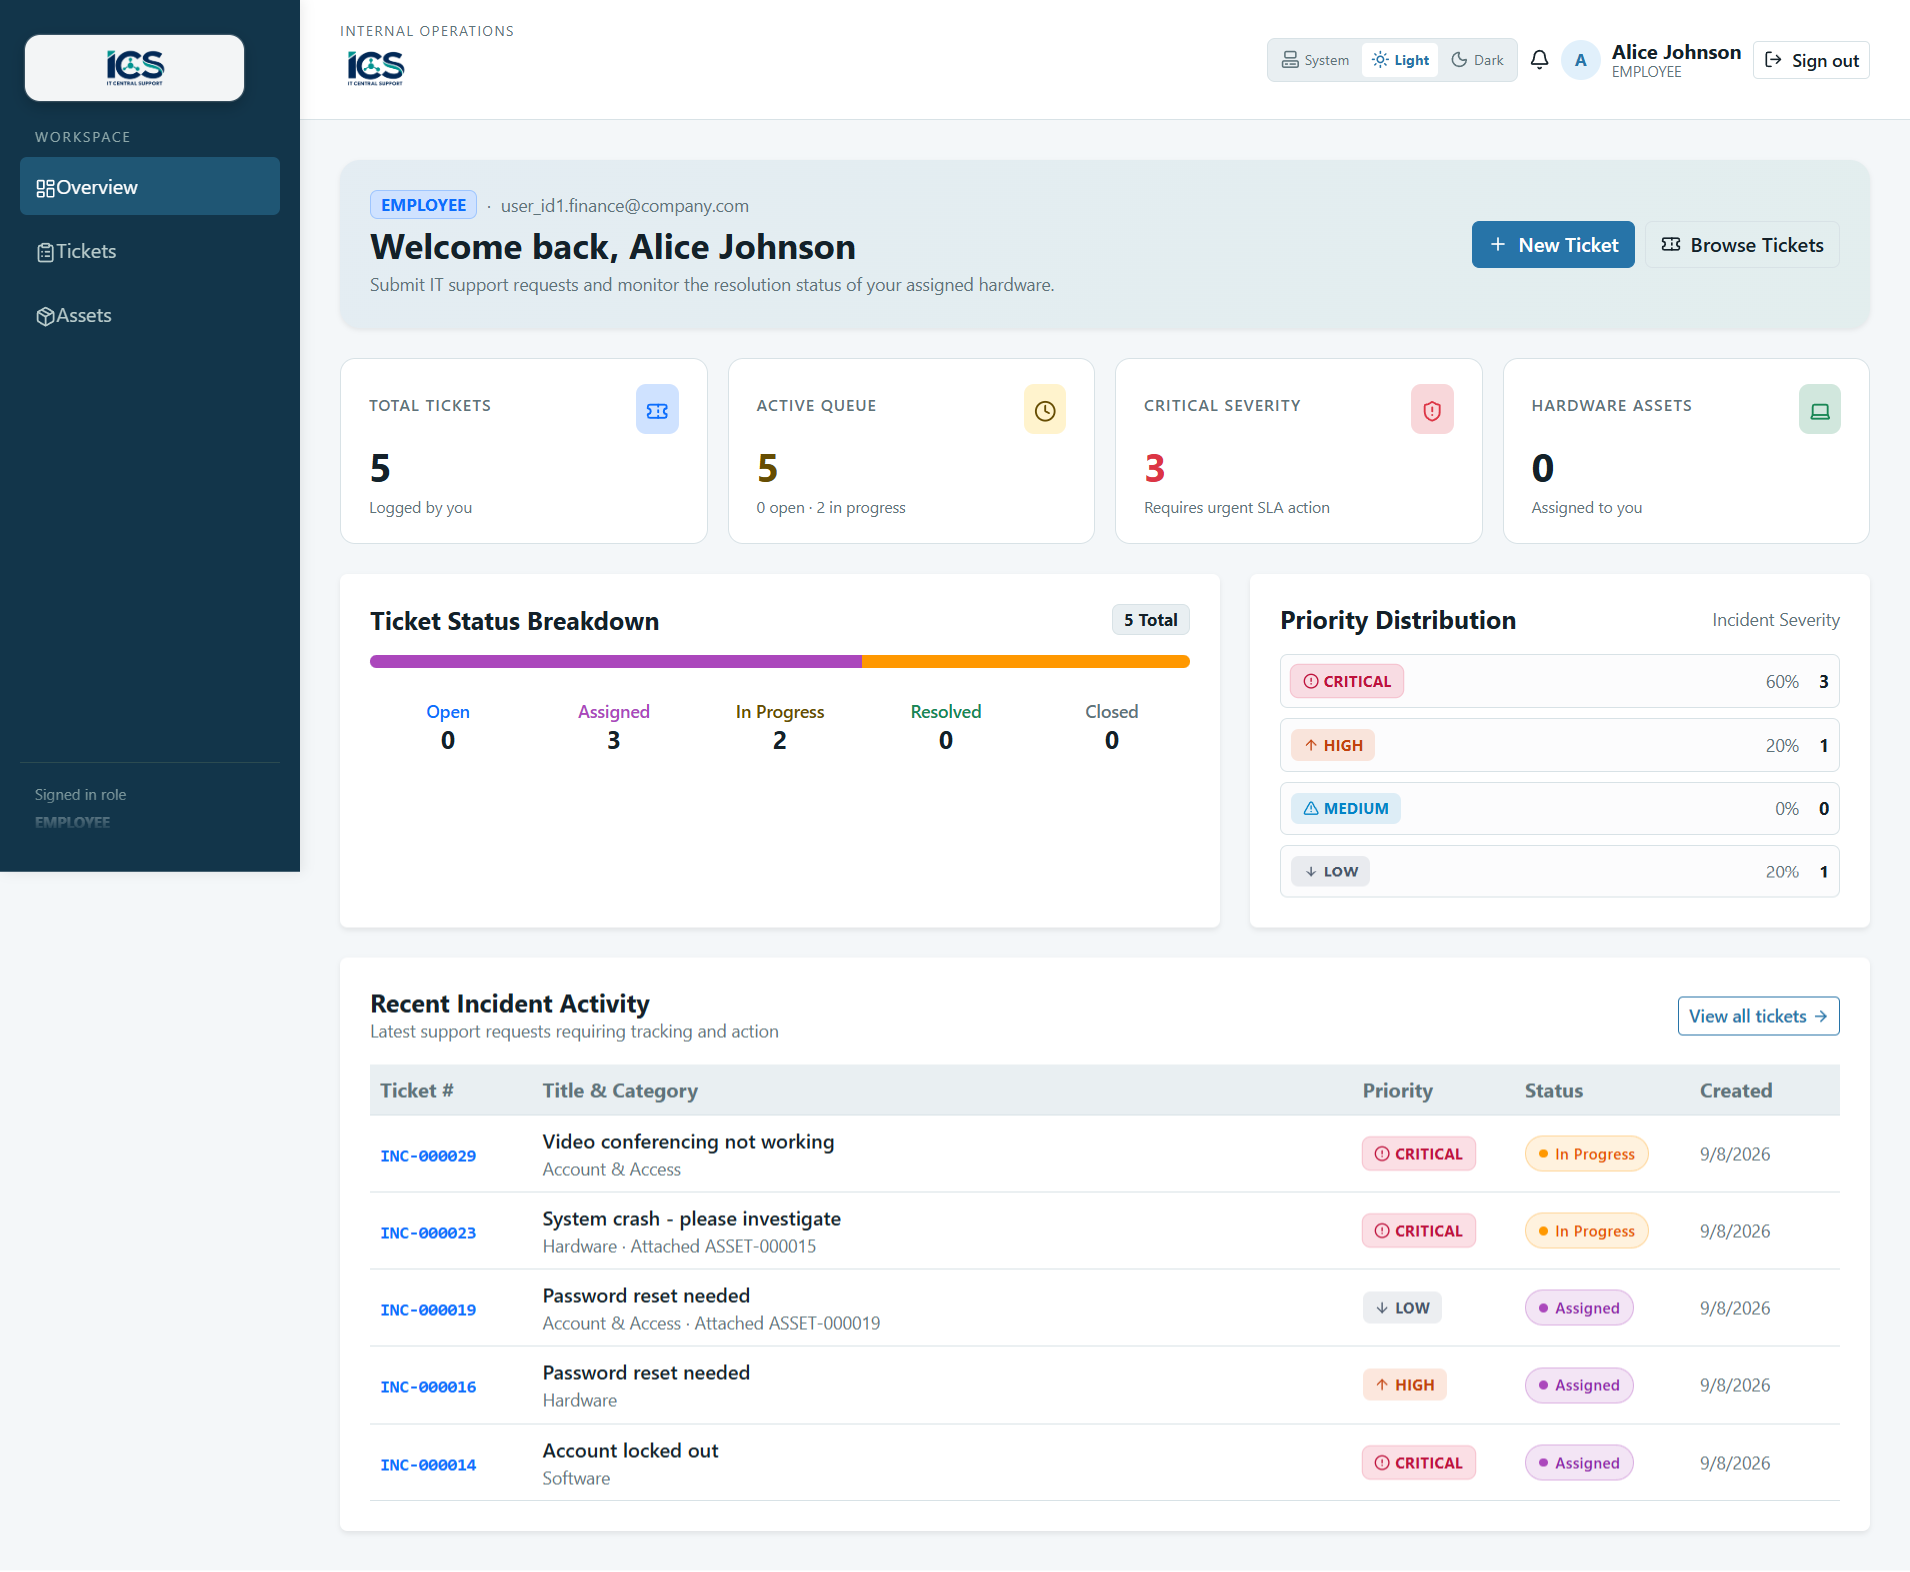
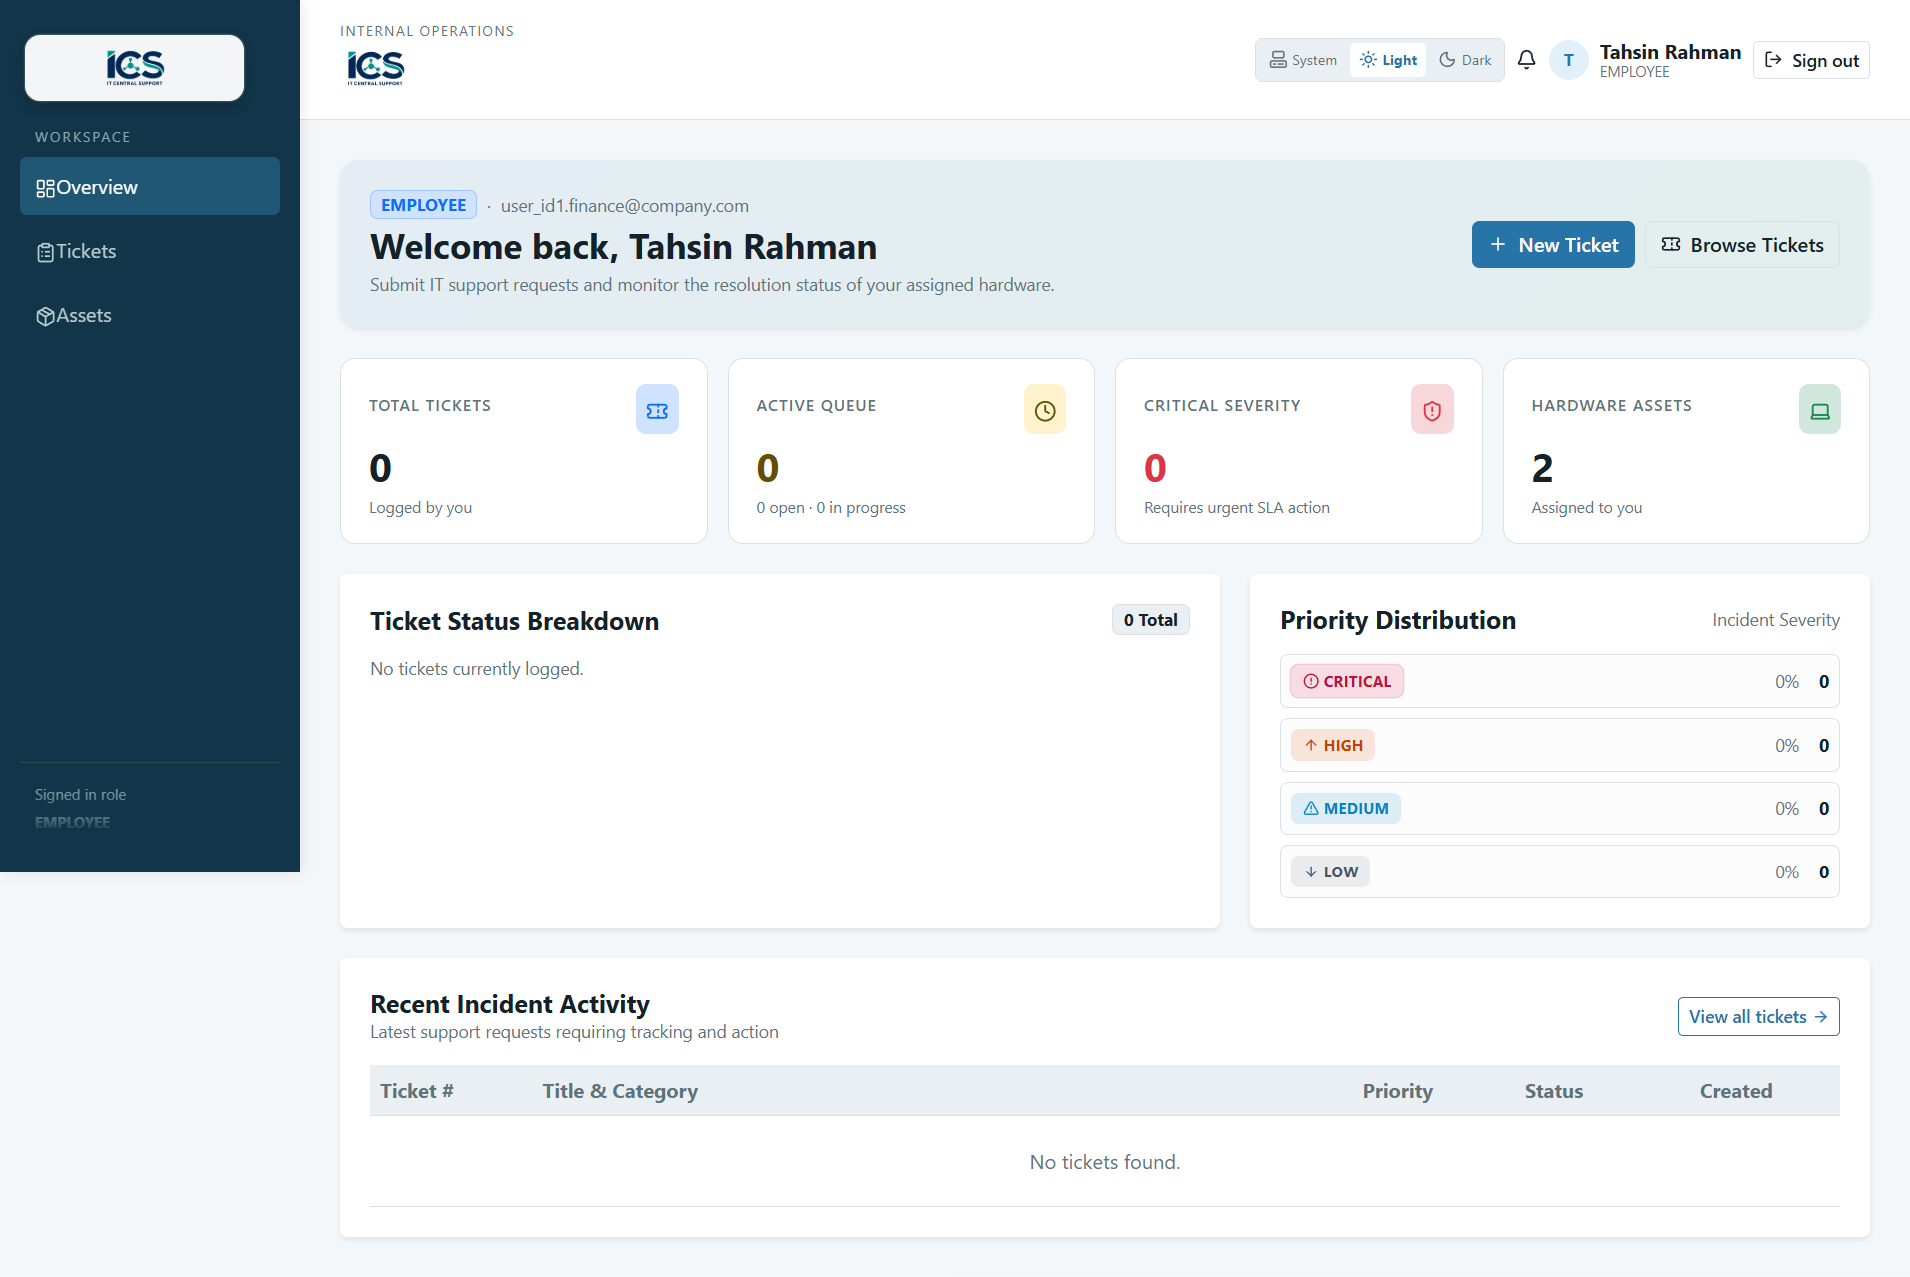
Update README with comprehensive guide and UI showcase screenshots

diff --git a/README.md b/README.md
@@ -1,98 +1,281 @@
-# ICS - IT Central Support
+<div align="center">
 
-**Portfolio Project for IT Intern Application — Financial Services Context**
+<img src="frontend/public/branding/ICS_icon-textbased.png" alt="ICS - IT Central Support Logo" width="280" />
 
-A realistic internal IT operations web application demonstrating practical knowledge of IT support workflows, ticket management, asset inventory, REST APIs, relational databases, and role-based authorization.
+# ICS — IT Central Support & Asset Management System
 
-**This is a fictional educational portfolio project designed to simulate internal IT operations in a financial-services environment. It is not affiliated with or representative of any company's internal systems.**
+**An enterprise-grade internal IT operations platform built for modern business workflows, incident handling, and hardware asset lifecycle governance.**
+
+[![Python](https://img.shields.io/badge/Python-3.11+-3776AB?style=for-the-badge&logo=python&logoColor=white)](https://www.python.org/)
+[![Flask](https://img.shields.io/badge/Flask-3.0+-000000?style=for-the-badge&logo=flask&logoColor=white)](https://flask.palletsprojects.com/)
+[![React](https://img.shields.io/badge/React-18.2+-20232A?style=for-the-badge&logo=react&logoColor=61DAFB)](https://react.dev/)
+[![Vite](https://img.shields.io/badge/Vite-4.5+-646CFF?style=for-the-badge&logo=vite&logoColor=white)](https://vitejs.dev/)
+[![Bootstrap](https://img.shields.io/badge/Bootstrap-5.3+-7952B3?style=for-the-badge&logo=bootstrap&logoColor=white)](https://getbootstrap.com/)
+[![SQLite/PostgreSQL](https://img.shields.io/badge/Database-SQLite%20%7C%20PostgreSQL-4169E1?style=for-the-badge&logo=postgresql&logoColor=white)](https://www.postgresql.org/)
+[![Docker](https://img.shields.io/badge/Docker-Ready-2496ED?style=for-the-badge&logo=docker&logoColor=white)](https://www.docker.com/)
+[![Render](https://img.shields.io/badge/Deploy-Render-46E3B7?style=for-the-badge&logo=render&logoColor=white)](https://render.com/)
+
+[Key Features](#-key-features) •
+[1-Click Demo Access](#-instant-1-click-guest-access) •
+[UI Showcase](#-ui-showcase) •
+[Architecture](#-system-architecture) •
+[Installation](#-local-installation--quick-start) •
+[Testing](#-testing--quality-assurance) •
+[Deployment](#-production-deployment) •
+[Docs](#-documentation-index)
+
+</div>
 
 ---
 
-## Project Status
+## 📌 Executive Summary
 
-🟢 **Core local workflow complete** — authentication, dashboard, tickets, assets, and tests are implemented
+**ICS (IT Central Support)** is a full-stack, internal operations web application designed to bridge the gap between organizational staff and technical support teams. It streamlines incident resolution, tracks hardware custody from procurement to decommissioning, maintains comprehensive audit logs, and enforces fine-grained role-based security across the enterprise.
 
-See [PROJECT_PLAN.md](PROJECT_PLAN.md) for detailed implementation roadmap.
+### Core Objectives
+- **End-User Empowerment**: Frictionless self-service ticketing with real-time progress and visibility over company-issued devices.
+- **Operational Agility**: Centralized technician queues with live search, ticket status progression, priority indicators, and comment threads.
+- **Asset Lifecycle Governance**: Complete physical equipment tracking including serial numbers, warranty deadlines, department allocation, and incident histories.
+- **Managerial Compliance**: Immutable manager audit logs, employee directory management, and administrative safeguards.
 
 ---
 
-## Quick Start
+## ⚡ Instant 1-Click Guest Access
 
-See [PROJECT_INSTRUCTIONS.md](PROJECT_INSTRUCTIONS.md) for complete setup, run, exploration, testing, and troubleshooting instructions.
+No registration or manual credential entry required! The login screen provides **instant 1-click persona buttons** to test each level of authorization:
 
-From the repository root, install dependencies:
+| Persona | Name | Role | Access Level & Capabilities |
+| :--- | :--- | :--- | :--- |
+| 👤 **Employee** | Tahsin Rahman | `EMPLOYEE` | **Self-Service**: Log IT issues, review assigned equipment, comment on personal tickets |
+| 🛠 **IT Support** | Rakib Chowdhury | `IT_SUPPORT` | **Operational**: Assign tickets, advance status workflow, register & update hardware inventory |
+| 🛡 **IT Manager** | Md. Shahidul Islam Prodhan | `IT_MANAGER` | **Executive Governance**: Manage user roles/status, inspect audit logs, full system oversight |
 
-```powershell
-python -m pip install -r backend/requirements.txt
-Push-Location frontend
-npm.cmd install
-Pop-Location
+> **Credentials (if typing manually):**  
+> • Employee: `user_id1.finance@company.com` / `user_id1`  
+> • IT Support: `user_id1.ics@company.com` / `user_id1`  
+> • IT Manager: `user_id2.ics@company.com` / `user_id2`
+
+---
+
+## 📸 UI Showcase
+
+### 1. Instant Guest Login
+*Sleek, responsive authentication screen featuring 1-click role simulation, password visibility toggle, and secure session management.*
+
+![Login Screen](project-ss/login-page.png)
+
+---
+
+### 2. Employee Dashboard (Self-Service)
+*Customized view for organizational staff displaying personal ticket counters, active support requests, and assigned physical assets.*
+
+![Employee Dashboard](project-ss/employee-dashboard.png)
+
+---
+
+### 3. IT Support Specialist Dashboard (Operations)
+*High-visibility technician hub highlighting open incident volume, assigned queues, pending resolutions, and quick access to hardware inventory.*
+
+![IT Support Dashboard](project-ss/itsupport-dashboard.png)
+
+---
+
+### 4. IT Manager Dashboard (Executive Governance)
+*Comprehensive managerial control center featuring organizational performance metrics, department breakdowns, employee directory management, and system-wide audit activity.*
+
+![Manager Dashboard](project-ss/manager-dashboard.png)
+
+---
+
+## 🌟 Key Features
+
+### 🎫 Support Incident Management
+- **Ticket Lifecycle**: Full workflow tracking across `Open` ➔ `Assigned` ➔ `In Progress` ➔ `Resolved` ➔ `Closed`.
+- **Search & Filtering**: Live query search (`?q=`) across titles, descriptions, and ticket numbers, plus category and priority filtering.
+- **Technician Assignment**: Reassign tickets to qualified specialists with audit traceability.
+- **Interactive Collaboration**: Timestamped threaded comments between staff and IT technicians.
+- **Resolution Documentation**: Enforced resolution notes upon closing incidents.
+
+### 💻 Hardware Asset Management
+- **Lifecycle Tracking**: Monitor hardware states: `Available`, `Assigned`, `Under Repair`, or `Retired`.
+- **Hardware Profile**: Manufacturer, model, serial number, procurement date, warranty expiry, and notes.
+- **Custodian Linking**: Associate physical workstations and devices directly to employees.
+- **Incident History**: Inspect past tickets linked to any individual hardware unit.
+
+### 🔒 Enterprise Security & Governance
+- **Role-Based Access Control (RBAC)**: Strict permission boundaries for `EMPLOYEE`, `IT_SUPPORT`, and `IT_MANAGER`.
+- **Session Security**: HTTP-only secure cookie sessions with Werkzeug password hashing.
+- **Manager Audit Logging**: Every critical action (role promotion, account deactivation, ticket reassignment) logged with actor and timestamp.
+- **Deactivation Protection**: Built-in safeguard preventing deactivation of the last remaining IT Manager.
+
+### 🎨 Modern UI/UX Design
+- **Dynamic Theming**: Instant toggle between Dark Mode and Light Mode with high-contrast text and accessible badges.
+- **Role-Colored Navigation**: Distinct accent themes for Employee (Navy), IT Support (Emerald), and IT Manager (Royal Indigo).
+- **Responsive Layout**: Fluid Bootstrap 5.3 grid optimized for desktop workstations, tablets, and mobile screens.
+
+---
+
+## 🏗 System Architecture
+
+```mermaid
+graph TD
+    Client["React 18 SPA (Vite + Bootstrap 5.3)"]
+    API["Flask REST API Engine (Python 3.11+)"]
+    Auth["Session & RBAC Middleware"]
+    DB[(SQLite / PostgreSQL via SQLAlchemy)]
+    Static["Static Assets & Compiled Bundle (frontend/dist)"]
+
+    Client -->|JSON REST Requests| API
+    API -->|Authenticate| Auth
+    Auth -->|Authorize| API
+    API -->|ORM Operations| DB
+    API -->|Serve SPA in Prod| Static
 ```
 
-Start Flask in one terminal:
+### Technology Matrix
 
+| Layer | Technologies |
+| :--- | :--- |
+| **Frontend UI** | React 18, Vite, Bootstrap 5.3, Lucide Icons, Axios, React Router v6 |
+| **Backend API** | Python 3.11+, Flask 3.0, Flask-SQLAlchemy, Werkzeug, Gunicorn |
+| **Database** | SQLite (development/testing) & PostgreSQL (cloud production) |
+| **Testing** | pytest, pytest-flask, in-memory SQLite isolation |
+| **Container & Cloud**| Docker, Docker Compose, Render Blueprint (`render.yaml`) |
+
+---
+
+## 💻 Local Installation & Quick Start
+
+### Prerequisites
+- **Python 3.10+**
+- **Node.js 18+** & `npm`
+- **Git**
+
+### 1. Clone Repository
 ```powershell
-Push-Location backend
+git clone https://github.com/TheShahidul/ICS_IT-Central-Support.git
+cd ICS_IT-Central-Support
+```
+
+### 2. Backend Setup
+```powershell
+# Create and activate virtual environment
+python -m venv venv
+.\venv\Scripts\Activate.ps1
+
+# Install dependencies
+pip install -r backend/requirements.txt
+
+# Seed the database with realistic demo data
+python -c "from backend.seed.seed_data import seed_database; seed_database()"
+```
+
+### 3. Frontend Setup
+```powershell
+cd frontend
+npm install
+npm run build
+cd ..
+```
+
+### 4. Run Development Servers
+
+**Option A: Separate Dev Servers (Recommended for Development)**
+
+*Terminal 1 (Backend API):*
+```powershell
+cd backend
 python app.py
+# Running on http://localhost:5000
 ```
 
-Start Vite in another terminal:
+*Terminal 2 (Frontend Hot-Reload):*
+```powershell
+cd frontend
+npm run dev
+# Running on http://localhost:5173
+```
+
+**Option B: Production Mode (Flask serves compiled frontend):**
+```powershell
+cd backend
+python wsgi.py
+# Open http://localhost:5000 in your browser
+```
+
+---
+
+## 🧪 Testing & Quality Assurance
+
+The test suite validates authentication, role permissions, asset tracking, ticket workflows, and edge cases using an isolated in-memory SQLite database.
 
 ```powershell
-Push-Location frontend
-npm.cmd run dev
+# Run all backend tests
+python -m pytest backend
 ```
 
-Open `http://localhost:5173` and use `user_id1.finance@company.com` / `user_id1`.
+### Test Coverage Highlights
+```text
+============================= test session starts =============================
+tests/test_assets.py ....                                                [ 13%]
+tests/test_auth.py .....                                                 [ 31%]
+tests/test_edge_cases.py .....                                           [ 48%]
+tests/test_phase1.py ....                                                [ 62%]
+tests/test_tickets.py .......                                            [ 86%]
+tests/test_users.py ....                                                 [100%]
+============================= 29 passed in 9.61s ==============================
+```
 
 ---
 
-## Technology Stack
+## 🚀 Production Deployment
 
-**Backend**: Python, Flask, SQLAlchemy, SQLite  
-**Frontend**: React, Vite, Bootstrap, Axios  
-**Testing**: pytest  
-**Version Control**: Git
+### Deploying to Render.com (1-Click Blueprint)
 
----
+The repository includes a ready-to-deploy [render.yaml](render.yaml) specification:
 
-## Key Features
+1. Create a free account on [Render.com](https://render.com).
+2. Click **New +** ➔ **Blueprint**.
+3. Connect repository `TheShahidul/ICS_IT-Central-Support`.
+4. Render automatically provisions:
+   - **Web Service**: Gunicorn WSGI Python container running Flask + React SPA.
+   - **PostgreSQL Database**: Persistent relational database (or persistent disk for SQLite).
+   - Automatic build execution via `build.sh`.
 
-- ✅ Session-based authentication (3 user roles)
-- ✅ Ticket management (create, assign, resolve, comment)
-- ✅ Asset inventory (manage hardware, track status)
-- ✅ Role-based authorization (EMPLOYEE, IT_SUPPORT, IT_MANAGER)
-- ✅ Operational dashboard metrics
-- ✅ Bootstrap responsive UI
-- ✅ Business rule enforcement (server-side validation)
-- ✅ Backend test suite
-- 🚧 Advanced administration, reporting, and production deployment hardening
+### Deploying via Docker Compose
 
----
+Run the entire production stack locally or on any cloud VPS:
 
-## Documentation
-
-- [architecture.md](docs/architecture.md) — System design
-- [database-design.md](docs/database-design.md) — Database schema
-- [api-documentation.md](docs/api-documentation.md) — API reference
-- [deployment.md](docs/deployment.md) — Cloud deployment (Render, Docker, Local)
-- [testing.md](docs/testing.md) — Testing guide
-- [user-guide.md](docs/user-guide.md) — Application usage & demo workflows
+```bash
+docker compose up --build -d
+```
+Visit `http://localhost:5000` to access the application.
 
 ---
 
-## ⚡ 1-Click Instant Demo Access
+## 📚 Documentation Index
 
-When running the application, you do **not need to memorize or type credentials** to review the features. On the login screen (`/login`), click any of the **Instant Guest Access** buttons:
-- 👤 **Employee** (Tahsin Rahman) — Self-service ticket submission & personal equipment tracking
-- 🛠 **IT Support** (Rakib Chowdhury) — Incident assignment, status workflow progression, hardware asset updates
-- 🛡 **IT Manager** (Md. Shahidul Islam Prodhan) — User administration, manager audit logs, organizational governance
+For in-depth architectural and operational guides, consult the `docs/` directory:
+
+| Document | Purpose |
+| :--- | :--- |
+| [architecture.md](docs/architecture.md) | High-level system design, security posture, and layer interactions |
+| [database-design.md](docs/database-design.md) | Entity-Relationship schema, foreign keys, enums, and indexing strategy |
+| [api-documentation.md](docs/api-documentation.md) | Full REST endpoint specifications with request/response examples |
+| [deployment.md](docs/deployment.md) | Step-by-step production guides for Render, Docker, and Linux VPS |
+| [user-guide.md](docs/user-guide.md) | Demonstration walk-throughs for each user persona |
+| [testing.md](docs/testing.md) | Testing strategy, test suites, and regression checklists |
 
 ---
 
-## 🚀 Cloud & Production Deployment
+## 👤 Author & Maintainer
 
-The project is configured for **1-click cloud deployment on Render.com** or any container environment (Docker / VPS):
-- **Render.com**: Connect your GitHub repository and deploy via [render.yaml](render.yaml)
-- **Docker**: Run `docker compose up --build`
-- See [docs/deployment.md](docs/deployment.md) for step-by-step instructions.
+**Md. Shahidul Islam Prodhan**  
+- GitHub: [@TheShahidul](https://github.com/TheShahidul)  
+- Project: [ICS_IT-Central-Support](https://github.com/TheShahidul/ICS_IT-Central-Support)  
+
+---
+
+<div align="center">
+  <sub>Built with ❤ for enterprise operational excellence. Licensed under MIT.</sub>
+</div>
